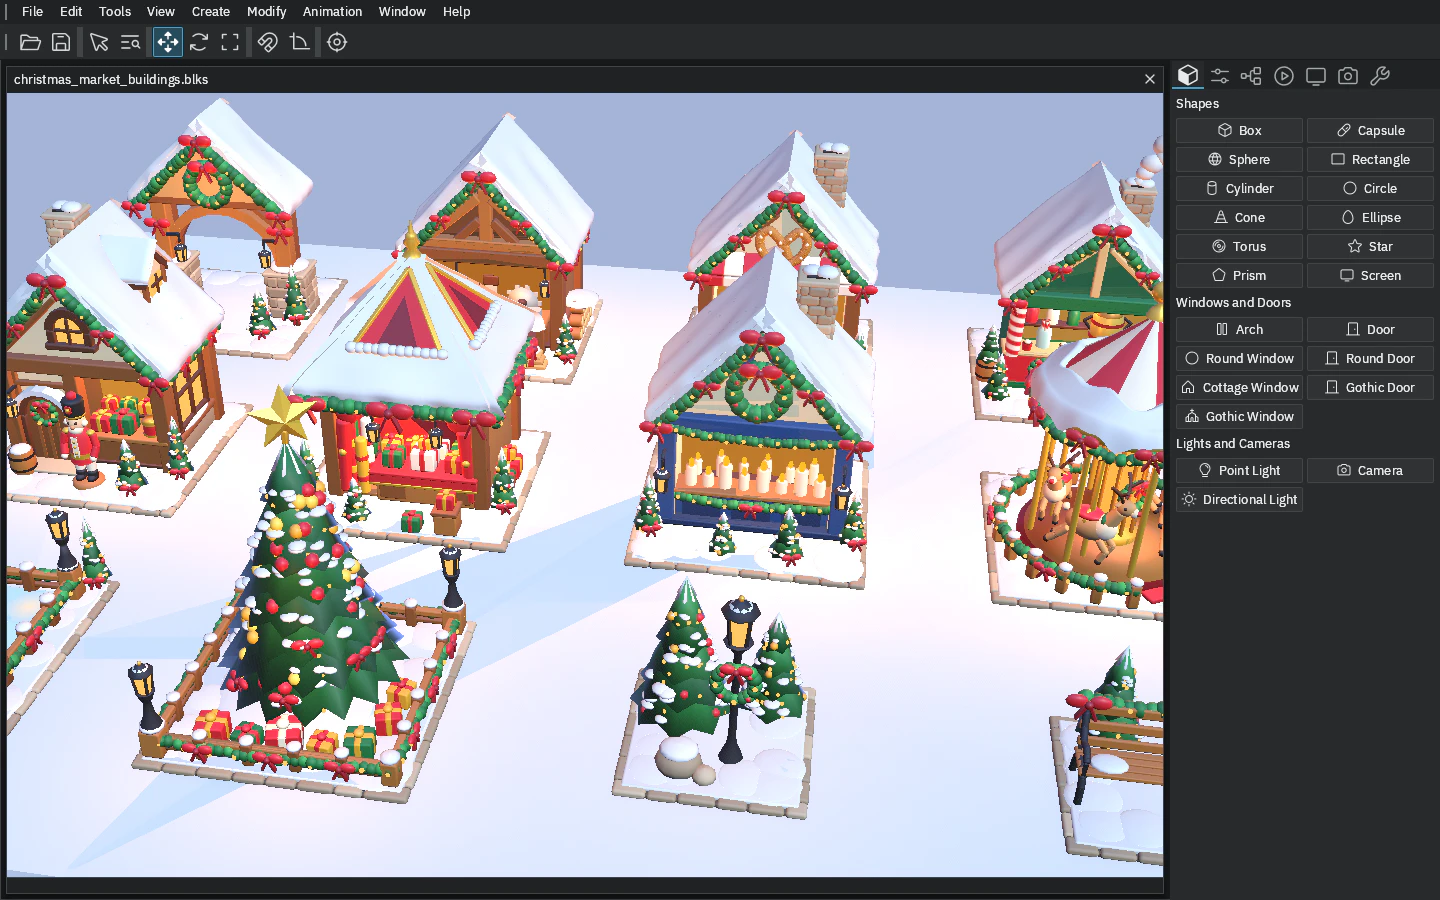
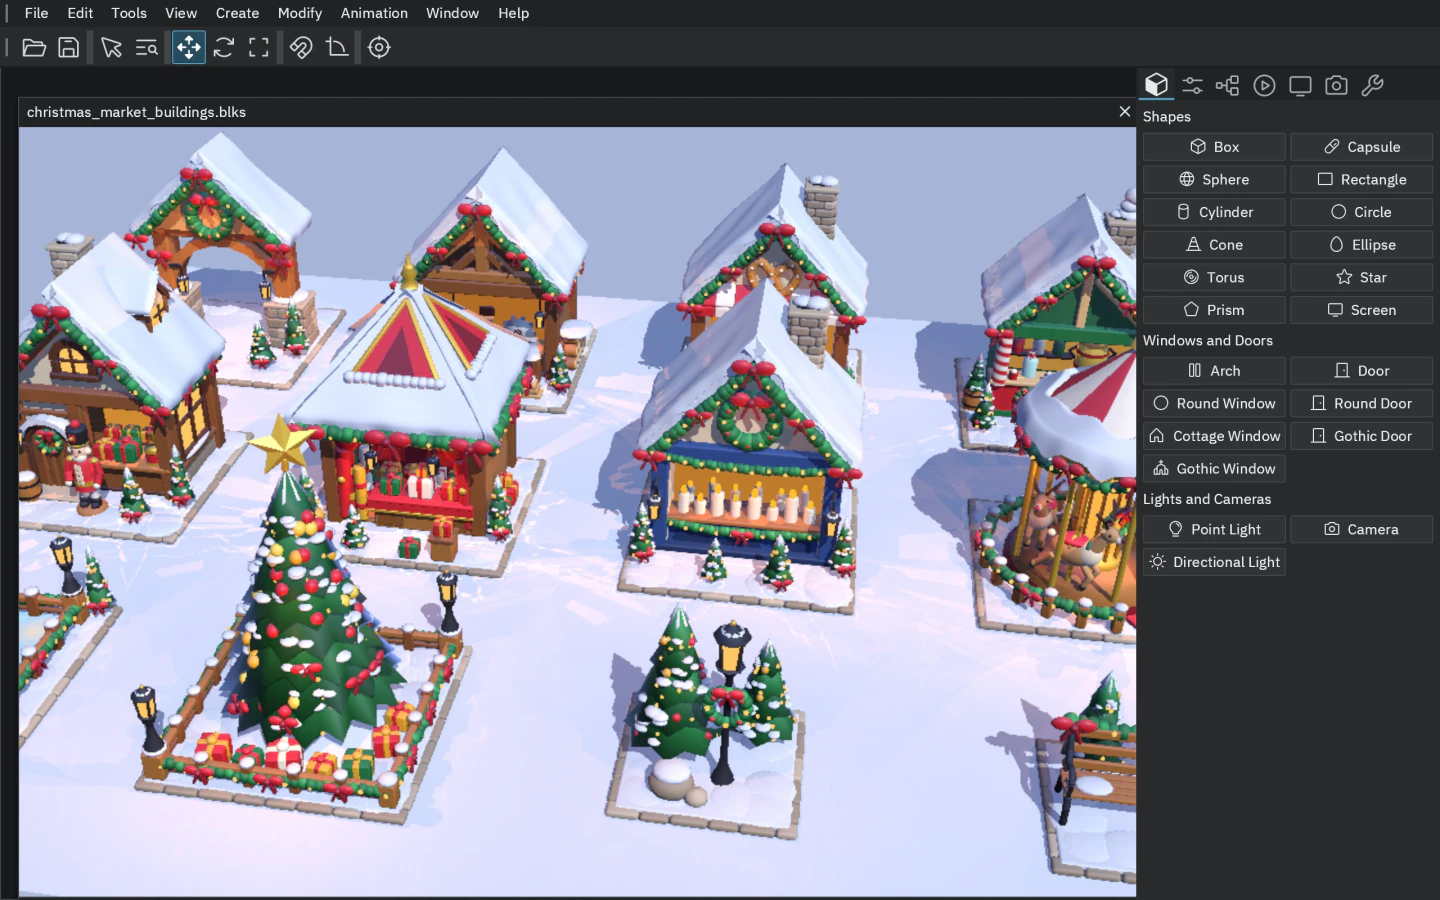
Publish the Scener market screenshot with cast shadows

diff --git a/docs/scener/index.html b/docs/scener/index.html
@@ -286,7 +286,7 @@ check great_library.blks: 0 errors, 0 warnings (19801 objects, 223 nodes)
     <p>The native Orion editor pairs a main toolbar for selection, transforms, and snapping with a tabbed Command Panel. Choose an object type to see its placement parameters, or select a scene node to inspect its properties and modifiers. Fly the viewport camera with W A S D.</p>
   </header>
   <figure class="plate wide">
-    <a href="shots/editor-market.webp" class="zoom"><img src="shots/editor-market.webp" width="1440" height="900" loading="lazy" alt="Scener's main toolbar above snowy Christmas market stalls, with icon tabs and creation tools in the Command Panel on the right."></a>
+    <a href="shots/editor-market.webp?v=0c7ff0d9af1f" class="zoom"><img src="shots/editor-market.webp?v=0c7ff0d9af1f" width="1440" height="900" loading="lazy" alt="Scener's main toolbar above snowy Christmas market stalls casting shadows, with icon tabs and creation tools in the Command Panel on the right."></a>
     <figcaption><b>Fig. 5</b> <code>scener christmas_market_buildings.blks --cam Overview</code></figcaption>
   </figure>
 </section>
